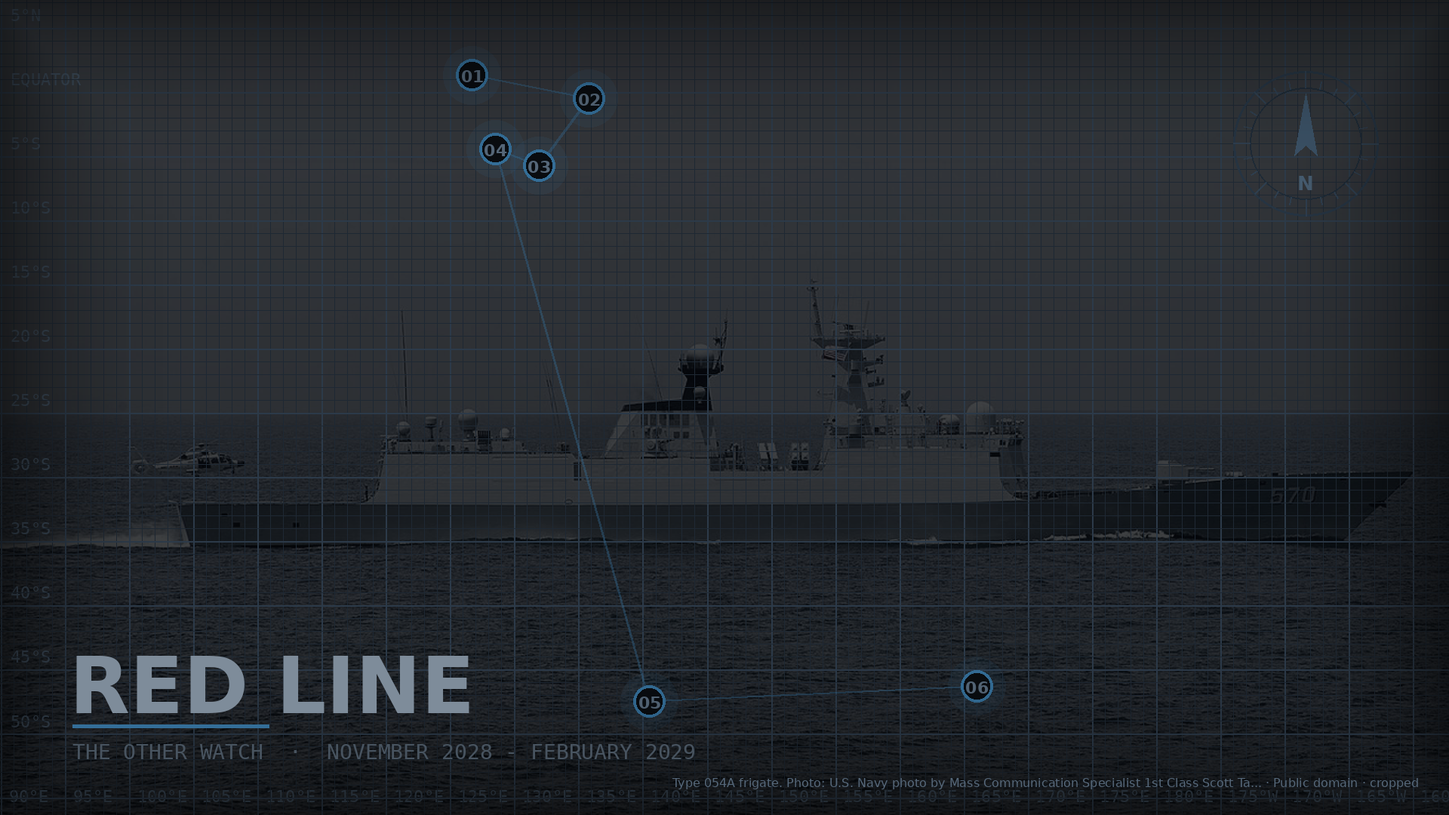
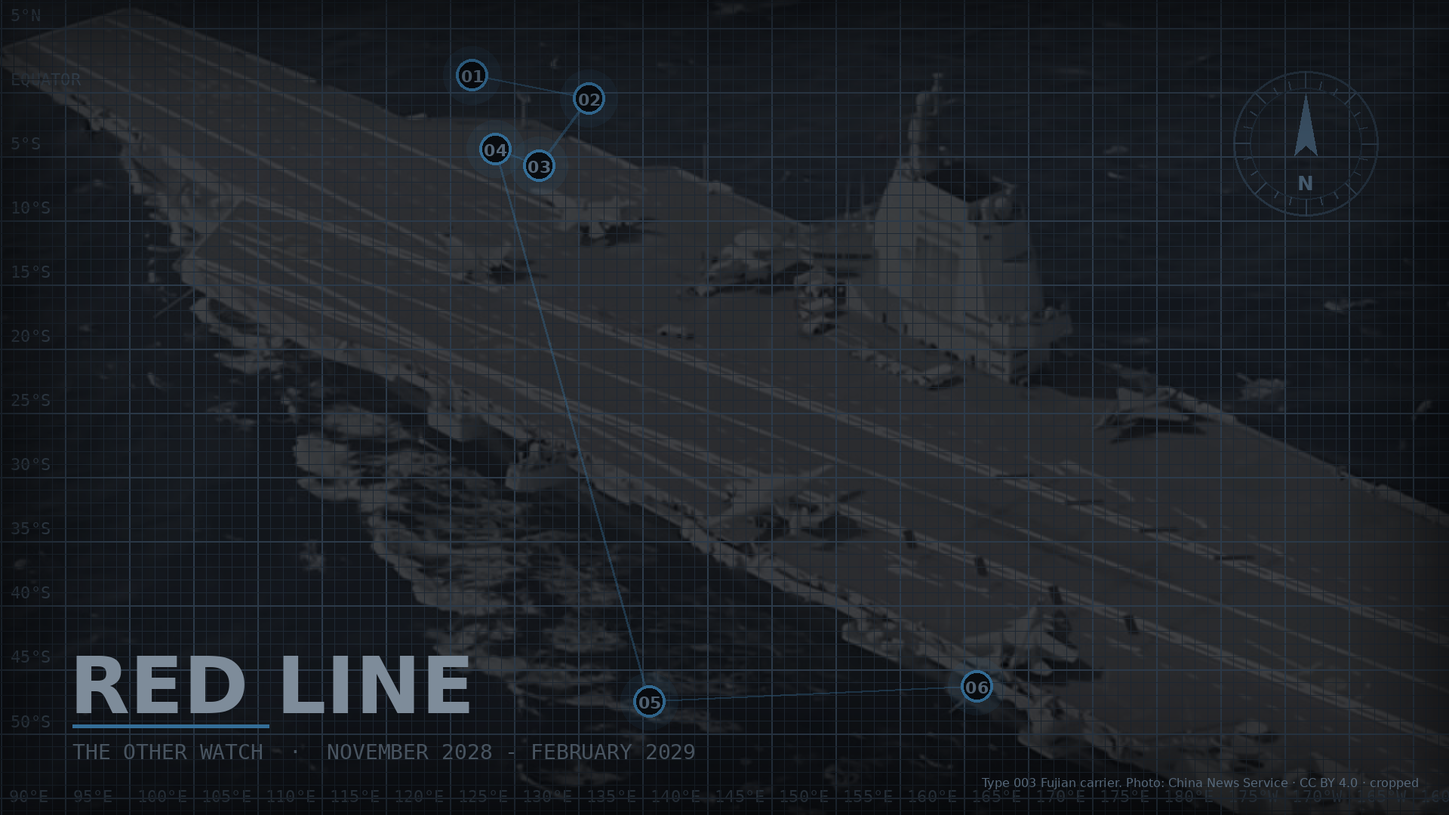
Campaign map backdrops: MH-60R for Southern Watch, Fujian for Red Line
The Steam campaign images show the banner photo large and, beside it, the
in-game campaign map, which was the same photo again behind the plot.
CAMPAIGN_BACKDROP now picks the campaign screen's backdrop photo where it
should differ from the banner: Southern Watch's MH-60R Seahawk (already
credited on the pack page) and, for Red Line, the Type 003 Fujian its
commander sails with. Briefing banners are unchanged; Southern Reach and
Sulu Line fall back to their banner photo as before.

pack-4-southern-watch.jpg and pack-6-red-line.jpg get the new backdrop as
their inset, a straight 520x292 downscale like the one it replaces.
VISUAL_CREDITS.txt and visual_overhaul.html credit both photos.
build_all.py --from-scratch reproduces the output; test_build_pack.py
passes.

Claude-Session: https://claude.ai/code/session_019KyQn4ss3aMEMLZ5x3fPig

diff --git a/integration/dist/SEST_Integration/Gallery/visual_overhaul.html b/integration/dist/SEST_Integration/Gallery/visual_overhaul.html
@@ -6,7 +6,7 @@
 <div class="controls"><button id="prev">Previous</button><select id="screenSelect" aria-label="Loading photograph"></select><button id="next">Next</button><button id="toggle">Hide preview overlay</button><a id="download" download>Open clean JPEG</a></div><p id="screenCredit" class="note"></p><p class="note">Photographs are fitted without changing the subject. The 1920 × 1080 canvas is a delivery format; smaller source photos do not gain real detail through resizing. Source dimensions and modifications are recorded in the manifest.</p>
 <h2>Flags and naval ensigns</h2><p class="intro">Use national flags for country identity and the appropriate ensign for ship service. Preserve era-specific flags for historical scenarios. Russia is a separate modern-profile option; Soviet assets remain available for historical content.</p><div class="controls"><input id="flagSearch" type="search" placeholder="Find a country or ensign…" aria-label="Search flags"><select id="flagRole" aria-label="Flag type"><option value="">All supplied flags</option><option value="national">National flags</option><option value="naval_ensign">Naval ensigns</option><option value="historical">Historical profile</option></select><span id="flagCount" class="note"></span></div><div id="flags" class="flaggrid"></div>
 <h2>Campaign and briefing presentation</h2><p class="intro">The same approved photograph can support mission covers, a briefing panel and campaign splash art. The template uses plain text and a source photo; theatre names, dates, orders and maps must come from the actual mission.</p><div class="briefing"><img id="briefPhoto" alt="Photographic briefing example"><div class="copy"><label>Briefing layout template</label><h3>Mission title</h3><span class="pill">THEATRE</span> <span class="pill">SCENARIO DATE</span><p><strong>Situation</strong><br>Insert the campaign's approved situation text.</p><p><strong>Mission</strong><br>Insert the actual objectives and rules for this mission.</p><p>Keep the interactive briefing map and operational details sourced from the mission files. This template contains no invented scenario information.</p></div></div>
-<h2>Steam artwork</h2><p class="intro">The images on the collection and pack pages on Steam, made from photos in this gallery. Each image carries its photo credit; full sources are in VISUAL_CREDITS.txt.</p><style>.steamgrid{display:grid;grid-template-columns:repeat(auto-fill,minmax(260px,1fr));gap:16px;max-width:1200px}.steamart{margin:0;background:#fff;border:1px solid var(--line);border-radius:8px;overflow:hidden}.steamart img{display:block;width:100%;height:auto}.steamart figcaption{padding:10px 12px;font-size:13px}.steamart small{color:var(--muted)}</style><div class="steamgrid"><figure class="steamart"><a href="visuals/steam/collection-cover.jpg"><img loading="lazy" src="visuals/steam/collection-cover.jpg" alt="Collection cover"></a><figcaption><strong>Collection cover</strong><br><small>Hobart class: Japan Maritime Self-Defense Force, CC BY 4.0</small></figcaption></figure><figure class="steamart"><a href="visuals/steam/collection-background.jpg"><img loading="lazy" src="visuals/steam/collection-background.jpg" alt="Collection background"></a><figcaption><strong>Collection background</strong><br><small>Arleigh Burke class: U.S. Navy photo by Journalist 2nd Class Patrick Reilly, Public domain; Hobart class: Japan Maritime Self-Defense Force, CC BY 4.0; Collins class submarine: U.S. Navy photo by Mass Communication Specialist 1st Class Leonard Adams, Public domain; Type 054A frigate: U.S. Navy photo by Mass Communication Specialist 1st Class Scott Taylor, Public domain</small></figcaption></figure><figure class="steamart"><a href="visuals/steam/pack-preview.jpg"><img loading="lazy" src="visuals/steam/pack-preview.jpg" alt="Pack cover"></a><figcaption><strong>Pack cover</strong><br><small>F-35A — RAAF: U.S. Air Force photo by Senior Airman J. Michael Peña, Public domain</small></figcaption></figure><figure class="steamart"><a href="visuals/steam/pack-1-latest-update.jpg"><img loading="lazy" src="visuals/steam/pack-1-latest-update.jpg" alt="Latest update"></a><figcaption><strong>Latest update</strong><br><small>BRP Tarlac: U.S. Navy photo by Mass Communication Specialist 1st Class Daniel Barker, CC BY-SA 4.0</small></figcaption></figure><figure class="steamart"><a href="visuals/steam/pack-2-whats-inside.jpg"><img loading="lazy" src="visuals/steam/pack-2-whats-inside.jpg" alt="What's in the pack"></a><figcaption><strong>What's in the pack</strong><br><small>Arleigh Burke class: U.S. Navy photo by Journalist 2nd Class Patrick Reilly, Public domain</small></figcaption></figure><figure class="steamart"><a href="visuals/steam/pack-3-installing.jpg"><img loading="lazy" src="visuals/steam/pack-3-installing.jpg" alt="Installing"></a><figcaption><strong>Installing</strong><br><small>E-7A Wedgetail — RAAF: U.S. Air Force photo by Lawrence Crespo, Public domain</small></figcaption></figure><figure class="steamart"><a href="visuals/steam/pack-4-southern-watch.jpg"><img loading="lazy" src="visuals/steam/pack-4-southern-watch.jpg" alt="Southern Watch"></a><figcaption><strong>Southern Watch</strong><br><small>Hobart class: Japan Maritime Self-Defense Force, CC BY 4.0</small></figcaption></figure><figure class="steamart"><a href="visuals/steam/pack-5-southern-reach.jpg"><img loading="lazy" src="visuals/steam/pack-5-southern-reach.jpg" alt="Southern Reach"></a><figcaption><strong>Southern Reach</strong><br><small>Collins class submarine: U.S. Navy photo by Mass Communication Specialist 1st Class Leonard Adams, Public domain</small></figcaption></figure><figure class="steamart"><a href="visuals/steam/pack-6-red-line.jpg"><img loading="lazy" src="visuals/steam/pack-6-red-line.jpg" alt="Red Line"></a><figcaption><strong>Red Line</strong><br><small>Type 054A frigate: U.S. Navy photo by Mass Communication Specialist 1st Class Scott Taylor, Public domain</small></figcaption></figure></div>
+<h2>Steam artwork</h2><p class="intro">The images on the collection and pack pages on Steam, made from photos in this gallery. Each image carries its photo credit; full sources are in VISUAL_CREDITS.txt.</p><style>.steamgrid{display:grid;grid-template-columns:repeat(auto-fill,minmax(260px,1fr));gap:16px;max-width:1200px}.steamart{margin:0;background:#fff;border:1px solid var(--line);border-radius:8px;overflow:hidden}.steamart img{display:block;width:100%;height:auto}.steamart figcaption{padding:10px 12px;font-size:13px}.steamart small{color:var(--muted)}</style><div class="steamgrid"><figure class="steamart"><a href="visuals/steam/collection-cover.jpg"><img loading="lazy" src="visuals/steam/collection-cover.jpg" alt="Collection cover"></a><figcaption><strong>Collection cover</strong><br><small>Hobart class: Japan Maritime Self-Defense Force, CC BY 4.0</small></figcaption></figure><figure class="steamart"><a href="visuals/steam/collection-background.jpg"><img loading="lazy" src="visuals/steam/collection-background.jpg" alt="Collection background"></a><figcaption><strong>Collection background</strong><br><small>Arleigh Burke class: U.S. Navy photo by Journalist 2nd Class Patrick Reilly, Public domain; Hobart class: Japan Maritime Self-Defense Force, CC BY 4.0; Collins class submarine: U.S. Navy photo by Mass Communication Specialist 1st Class Leonard Adams, Public domain; Type 054A frigate: U.S. Navy photo by Mass Communication Specialist 1st Class Scott Taylor, Public domain</small></figcaption></figure><figure class="steamart"><a href="visuals/steam/pack-preview.jpg"><img loading="lazy" src="visuals/steam/pack-preview.jpg" alt="Pack cover"></a><figcaption><strong>Pack cover</strong><br><small>F-35A — RAAF: U.S. Air Force photo by Senior Airman J. Michael Peña, Public domain</small></figcaption></figure><figure class="steamart"><a href="visuals/steam/pack-1-latest-update.jpg"><img loading="lazy" src="visuals/steam/pack-1-latest-update.jpg" alt="Latest update"></a><figcaption><strong>Latest update</strong><br><small>BRP Tarlac: U.S. Navy photo by Mass Communication Specialist 1st Class Daniel Barker, CC BY-SA 4.0</small></figcaption></figure><figure class="steamart"><a href="visuals/steam/pack-2-whats-inside.jpg"><img loading="lazy" src="visuals/steam/pack-2-whats-inside.jpg" alt="What's in the pack"></a><figcaption><strong>What's in the pack</strong><br><small>Arleigh Burke class: U.S. Navy photo by Journalist 2nd Class Patrick Reilly, Public domain</small></figcaption></figure><figure class="steamart"><a href="visuals/steam/pack-3-installing.jpg"><img loading="lazy" src="visuals/steam/pack-3-installing.jpg" alt="Installing"></a><figcaption><strong>Installing</strong><br><small>E-7A Wedgetail — RAAF: U.S. Air Force photo by Lawrence Crespo, Public domain</small></figcaption></figure><figure class="steamart"><a href="visuals/steam/pack-4-southern-watch.jpg"><img loading="lazy" src="visuals/steam/pack-4-southern-watch.jpg" alt="Southern Watch"></a><figcaption><strong>Southern Watch</strong><br><small>Hobart class: Japan Maritime Self-Defense Force, CC BY 4.0; campaign map: MH-60R Seahawk, U.S. Navy/Mass Communication Specialist 3rd Class Andrew Langholf, Public domain</small></figcaption></figure><figure class="steamart"><a href="visuals/steam/pack-5-southern-reach.jpg"><img loading="lazy" src="visuals/steam/pack-5-southern-reach.jpg" alt="Southern Reach"></a><figcaption><strong>Southern Reach</strong><br><small>Collins class submarine: U.S. Navy photo by Mass Communication Specialist 1st Class Leonard Adams, Public domain</small></figcaption></figure><figure class="steamart"><a href="visuals/steam/pack-6-red-line.jpg"><img loading="lazy" src="visuals/steam/pack-6-red-line.jpg" alt="Red Line"></a><figcaption><strong>Red Line</strong><br><small>Type 054A frigate: U.S. Navy photo by Mass Communication Specialist 1st Class Scott Taylor, Public domain; campaign map: Type 003 Fujian, China News Service, CC BY 4.0</small></figcaption></figure></div>
 <h2>Other improvements to consider</h2><div class="table"><table><thead><tr><th>Area</th><th>Deliverable</th><th>Current state</th><th>Order</th></tr></thead><tbody id="roadmap"></tbody></table></div>
 </main><footer>Source graphics and photographs retain their own licences. Clean assets, credits and candidate mappings are supplied. No game files have been changed; native image loading, flag texture routing, mod conflicts and in-game appearance still require testing.</footer><script src="visuals/catalogue.js"></script><script>
 'use strict';const V=window.VISUALS;const $=s=>document.querySelector(s);const esc=s=>String(s??'').replace(/[&<>"']/g,c=>({'&':'&amp;','<':'&lt;','>':'&gt;','"':'&quot;',"'":'&#39;'}[c]));let index=0,overlay=true;

diff --git a/integration/gallery/SEST_Gallery/Gallery/visual_overhaul.html b/integration/gallery/SEST_Gallery/Gallery/visual_overhaul.html
@@ -6,7 +6,7 @@
 <div class="controls"><button id="prev">Previous</button><select id="screenSelect" aria-label="Loading photograph"></select><button id="next">Next</button><button id="toggle">Hide preview overlay</button><a id="download" download>Open clean JPEG</a></div><p id="screenCredit" class="note"></p><p class="note">Photographs are fitted without changing the subject. The 1920 × 1080 canvas is a delivery format; smaller source photos do not gain real detail through resizing. Source dimensions and modifications are recorded in the manifest.</p>
 <h2>Flags and naval ensigns</h2><p class="intro">Use national flags for country identity and the appropriate ensign for ship service. Preserve era-specific flags for historical scenarios. Russia is a separate modern-profile option; Soviet assets remain available for historical content.</p><div class="controls"><input id="flagSearch" type="search" placeholder="Find a country or ensign…" aria-label="Search flags"><select id="flagRole" aria-label="Flag type"><option value="">All supplied flags</option><option value="national">National flags</option><option value="naval_ensign">Naval ensigns</option><option value="historical">Historical profile</option></select><span id="flagCount" class="note"></span></div><div id="flags" class="flaggrid"></div>
 <h2>Campaign and briefing presentation</h2><p class="intro">The same approved photograph can support mission covers, a briefing panel and campaign splash art. The template uses plain text and a source photo; theatre names, dates, orders and maps must come from the actual mission.</p><div class="briefing"><img id="briefPhoto" alt="Photographic briefing example"><div class="copy"><label>Briefing layout template</label><h3>Mission title</h3><span class="pill">THEATRE</span> <span class="pill">SCENARIO DATE</span><p><strong>Situation</strong><br>Insert the campaign's approved situation text.</p><p><strong>Mission</strong><br>Insert the actual objectives and rules for this mission.</p><p>Keep the interactive briefing map and operational details sourced from the mission files. This template contains no invented scenario information.</p></div></div>
-<h2>Steam artwork</h2><p class="intro">The images on the collection and pack pages on Steam, made from photos in this gallery. Each image carries its photo credit; full sources are in VISUAL_CREDITS.txt.</p><style>.steamgrid{display:grid;grid-template-columns:repeat(auto-fill,minmax(260px,1fr));gap:16px;max-width:1200px}.steamart{margin:0;background:#fff;border:1px solid var(--line);border-radius:8px;overflow:hidden}.steamart img{display:block;width:100%;height:auto}.steamart figcaption{padding:10px 12px;font-size:13px}.steamart small{color:var(--muted)}</style><div class="steamgrid"><figure class="steamart"><a href="visuals/steam/collection-cover.jpg"><img loading="lazy" src="visuals/steam/collection-cover.jpg" alt="Collection cover"></a><figcaption><strong>Collection cover</strong><br><small>Hobart class: Japan Maritime Self-Defense Force, CC BY 4.0</small></figcaption></figure><figure class="steamart"><a href="visuals/steam/collection-background.jpg"><img loading="lazy" src="visuals/steam/collection-background.jpg" alt="Collection background"></a><figcaption><strong>Collection background</strong><br><small>Arleigh Burke class: U.S. Navy photo by Journalist 2nd Class Patrick Reilly, Public domain; Hobart class: Japan Maritime Self-Defense Force, CC BY 4.0; Collins class submarine: U.S. Navy photo by Mass Communication Specialist 1st Class Leonard Adams, Public domain; Type 054A frigate: U.S. Navy photo by Mass Communication Specialist 1st Class Scott Taylor, Public domain</small></figcaption></figure><figure class="steamart"><a href="visuals/steam/pack-preview.jpg"><img loading="lazy" src="visuals/steam/pack-preview.jpg" alt="Pack cover"></a><figcaption><strong>Pack cover</strong><br><small>F-35A — RAAF: U.S. Air Force photo by Senior Airman J. Michael Peña, Public domain</small></figcaption></figure><figure class="steamart"><a href="visuals/steam/pack-1-latest-update.jpg"><img loading="lazy" src="visuals/steam/pack-1-latest-update.jpg" alt="Latest update"></a><figcaption><strong>Latest update</strong><br><small>BRP Tarlac: U.S. Navy photo by Mass Communication Specialist 1st Class Daniel Barker, CC BY-SA 4.0</small></figcaption></figure><figure class="steamart"><a href="visuals/steam/pack-2-whats-inside.jpg"><img loading="lazy" src="visuals/steam/pack-2-whats-inside.jpg" alt="What's in the pack"></a><figcaption><strong>What's in the pack</strong><br><small>Arleigh Burke class: U.S. Navy photo by Journalist 2nd Class Patrick Reilly, Public domain</small></figcaption></figure><figure class="steamart"><a href="visuals/steam/pack-3-installing.jpg"><img loading="lazy" src="visuals/steam/pack-3-installing.jpg" alt="Installing"></a><figcaption><strong>Installing</strong><br><small>E-7A Wedgetail — RAAF: U.S. Air Force photo by Lawrence Crespo, Public domain</small></figcaption></figure><figure class="steamart"><a href="visuals/steam/pack-4-southern-watch.jpg"><img loading="lazy" src="visuals/steam/pack-4-southern-watch.jpg" alt="Southern Watch"></a><figcaption><strong>Southern Watch</strong><br><small>Hobart class: Japan Maritime Self-Defense Force, CC BY 4.0</small></figcaption></figure><figure class="steamart"><a href="visuals/steam/pack-5-southern-reach.jpg"><img loading="lazy" src="visuals/steam/pack-5-southern-reach.jpg" alt="Southern Reach"></a><figcaption><strong>Southern Reach</strong><br><small>Collins class submarine: U.S. Navy photo by Mass Communication Specialist 1st Class Leonard Adams, Public domain</small></figcaption></figure><figure class="steamart"><a href="visuals/steam/pack-6-red-line.jpg"><img loading="lazy" src="visuals/steam/pack-6-red-line.jpg" alt="Red Line"></a><figcaption><strong>Red Line</strong><br><small>Type 054A frigate: U.S. Navy photo by Mass Communication Specialist 1st Class Scott Taylor, Public domain</small></figcaption></figure></div>
+<h2>Steam artwork</h2><p class="intro">The images on the collection and pack pages on Steam, made from photos in this gallery. Each image carries its photo credit; full sources are in VISUAL_CREDITS.txt.</p><style>.steamgrid{display:grid;grid-template-columns:repeat(auto-fill,minmax(260px,1fr));gap:16px;max-width:1200px}.steamart{margin:0;background:#fff;border:1px solid var(--line);border-radius:8px;overflow:hidden}.steamart img{display:block;width:100%;height:auto}.steamart figcaption{padding:10px 12px;font-size:13px}.steamart small{color:var(--muted)}</style><div class="steamgrid"><figure class="steamart"><a href="visuals/steam/collection-cover.jpg"><img loading="lazy" src="visuals/steam/collection-cover.jpg" alt="Collection cover"></a><figcaption><strong>Collection cover</strong><br><small>Hobart class: Japan Maritime Self-Defense Force, CC BY 4.0</small></figcaption></figure><figure class="steamart"><a href="visuals/steam/collection-background.jpg"><img loading="lazy" src="visuals/steam/collection-background.jpg" alt="Collection background"></a><figcaption><strong>Collection background</strong><br><small>Arleigh Burke class: U.S. Navy photo by Journalist 2nd Class Patrick Reilly, Public domain; Hobart class: Japan Maritime Self-Defense Force, CC BY 4.0; Collins class submarine: U.S. Navy photo by Mass Communication Specialist 1st Class Leonard Adams, Public domain; Type 054A frigate: U.S. Navy photo by Mass Communication Specialist 1st Class Scott Taylor, Public domain</small></figcaption></figure><figure class="steamart"><a href="visuals/steam/pack-preview.jpg"><img loading="lazy" src="visuals/steam/pack-preview.jpg" alt="Pack cover"></a><figcaption><strong>Pack cover</strong><br><small>F-35A — RAAF: U.S. Air Force photo by Senior Airman J. Michael Peña, Public domain</small></figcaption></figure><figure class="steamart"><a href="visuals/steam/pack-1-latest-update.jpg"><img loading="lazy" src="visuals/steam/pack-1-latest-update.jpg" alt="Latest update"></a><figcaption><strong>Latest update</strong><br><small>BRP Tarlac: U.S. Navy photo by Mass Communication Specialist 1st Class Daniel Barker, CC BY-SA 4.0</small></figcaption></figure><figure class="steamart"><a href="visuals/steam/pack-2-whats-inside.jpg"><img loading="lazy" src="visuals/steam/pack-2-whats-inside.jpg" alt="What's in the pack"></a><figcaption><strong>What's in the pack</strong><br><small>Arleigh Burke class: U.S. Navy photo by Journalist 2nd Class Patrick Reilly, Public domain</small></figcaption></figure><figure class="steamart"><a href="visuals/steam/pack-3-installing.jpg"><img loading="lazy" src="visuals/steam/pack-3-installing.jpg" alt="Installing"></a><figcaption><strong>Installing</strong><br><small>E-7A Wedgetail — RAAF: U.S. Air Force photo by Lawrence Crespo, Public domain</small></figcaption></figure><figure class="steamart"><a href="visuals/steam/pack-4-southern-watch.jpg"><img loading="lazy" src="visuals/steam/pack-4-southern-watch.jpg" alt="Southern Watch"></a><figcaption><strong>Southern Watch</strong><br><small>Hobart class: Japan Maritime Self-Defense Force, CC BY 4.0; campaign map: MH-60R Seahawk, U.S. Navy/Mass Communication Specialist 3rd Class Andrew Langholf, Public domain</small></figcaption></figure><figure class="steamart"><a href="visuals/steam/pack-5-southern-reach.jpg"><img loading="lazy" src="visuals/steam/pack-5-southern-reach.jpg" alt="Southern Reach"></a><figcaption><strong>Southern Reach</strong><br><small>Collins class submarine: U.S. Navy photo by Mass Communication Specialist 1st Class Leonard Adams, Public domain</small></figcaption></figure><figure class="steamart"><a href="visuals/steam/pack-6-red-line.jpg"><img loading="lazy" src="visuals/steam/pack-6-red-line.jpg" alt="Red Line"></a><figcaption><strong>Red Line</strong><br><small>Type 054A frigate: U.S. Navy photo by Mass Communication Specialist 1st Class Scott Taylor, Public domain; campaign map: Type 003 Fujian, China News Service, CC BY 4.0</small></figcaption></figure></div>
 <h2>Other improvements to consider</h2><div class="table"><table><thead><tr><th>Area</th><th>Deliverable</th><th>Current state</th><th>Order</th></tr></thead><tbody id="roadmap"></tbody></table></div>
 </main><footer>Source graphics and photographs retain their own licences. Clean assets, credits and candidate mappings are supplied. No game files have been changed; native image loading, flag texture routing, mod conflicts and in-game appearance still require testing.</footer><script src="visuals/catalogue.js"></script><script>
 'use strict';const V=window.VISUALS;const $=s=>document.querySelector(s);const esc=s=>String(s??'').replace(/[&<>"']/g,c=>({'&':'&amp;','<':'&lt;','>':'&gt;','"':'&quot;',"'":'&#39;'}[c]));let index=0,overlay=true;

diff --git a/integration/gallery/source/visual_overhaul.html b/integration/gallery/source/visual_overhaul.html
@@ -6,7 +6,7 @@
 <div class="controls"><button id="prev">Previous</button><select id="screenSelect" aria-label="Loading photograph"></select><button id="next">Next</button><button id="toggle">Hide preview overlay</button><a id="download" download>Open clean JPEG</a></div><p id="screenCredit" class="note"></p><p class="note">Photographs are fitted without changing the subject. The 1920 × 1080 canvas is a delivery format; smaller source photos do not gain real detail through resizing. Source dimensions and modifications are recorded in the manifest.</p>
 <h2>Flags and naval ensigns</h2><p class="intro">Use national flags for country identity and the appropriate ensign for ship service. Preserve era-specific flags for historical scenarios. Russia is a separate modern-profile option; Soviet assets remain available for historical content.</p><div class="controls"><input id="flagSearch" type="search" placeholder="Find a country or ensign…" aria-label="Search flags"><select id="flagRole" aria-label="Flag type"><option value="">All supplied flags</option><option value="national">National flags</option><option value="naval_ensign">Naval ensigns</option><option value="historical">Historical profile</option></select><span id="flagCount" class="note"></span></div><div id="flags" class="flaggrid"></div>
 <h2>Campaign and briefing presentation</h2><p class="intro">The same approved photograph can support mission covers, a briefing panel and campaign splash art. The template uses plain text and a source photo; theatre names, dates, orders and maps must come from the actual mission.</p><div class="briefing"><img id="briefPhoto" alt="Photographic briefing example"><div class="copy"><label>Briefing layout template</label><h3>Mission title</h3><span class="pill">THEATRE</span> <span class="pill">SCENARIO DATE</span><p><strong>Situation</strong><br>Insert the campaign's approved situation text.</p><p><strong>Mission</strong><br>Insert the actual objectives and rules for this mission.</p><p>Keep the interactive briefing map and operational details sourced from the mission files. This template contains no invented scenario information.</p></div></div>
-<h2>Steam artwork</h2><p class="intro">The images on the collection and pack pages on Steam, made from photos in this gallery. Each image carries its photo credit; full sources are in VISUAL_CREDITS.txt.</p><style>.steamgrid{display:grid;grid-template-columns:repeat(auto-fill,minmax(260px,1fr));gap:16px;max-width:1200px}.steamart{margin:0;background:#fff;border:1px solid var(--line);border-radius:8px;overflow:hidden}.steamart img{display:block;width:100%;height:auto}.steamart figcaption{padding:10px 12px;font-size:13px}.steamart small{color:var(--muted)}</style><div class="steamgrid"><figure class="steamart"><a href="visuals/steam/collection-cover.jpg"><img loading="lazy" src="visuals/steam/collection-cover.jpg" alt="Collection cover"></a><figcaption><strong>Collection cover</strong><br><small>Hobart class: Japan Maritime Self-Defense Force, CC BY 4.0</small></figcaption></figure><figure class="steamart"><a href="visuals/steam/collection-background.jpg"><img loading="lazy" src="visuals/steam/collection-background.jpg" alt="Collection background"></a><figcaption><strong>Collection background</strong><br><small>Arleigh Burke class: U.S. Navy photo by Journalist 2nd Class Patrick Reilly, Public domain; Hobart class: Japan Maritime Self-Defense Force, CC BY 4.0; Collins class submarine: U.S. Navy photo by Mass Communication Specialist 1st Class Leonard Adams, Public domain; Type 054A frigate: U.S. Navy photo by Mass Communication Specialist 1st Class Scott Taylor, Public domain</small></figcaption></figure><figure class="steamart"><a href="visuals/steam/pack-preview.jpg"><img loading="lazy" src="visuals/steam/pack-preview.jpg" alt="Pack cover"></a><figcaption><strong>Pack cover</strong><br><small>F-35A — RAAF: U.S. Air Force photo by Senior Airman J. Michael Peña, Public domain</small></figcaption></figure><figure class="steamart"><a href="visuals/steam/pack-1-latest-update.jpg"><img loading="lazy" src="visuals/steam/pack-1-latest-update.jpg" alt="Latest update"></a><figcaption><strong>Latest update</strong><br><small>BRP Tarlac: U.S. Navy photo by Mass Communication Specialist 1st Class Daniel Barker, CC BY-SA 4.0</small></figcaption></figure><figure class="steamart"><a href="visuals/steam/pack-2-whats-inside.jpg"><img loading="lazy" src="visuals/steam/pack-2-whats-inside.jpg" alt="What's in the pack"></a><figcaption><strong>What's in the pack</strong><br><small>Arleigh Burke class: U.S. Navy photo by Journalist 2nd Class Patrick Reilly, Public domain</small></figcaption></figure><figure class="steamart"><a href="visuals/steam/pack-3-installing.jpg"><img loading="lazy" src="visuals/steam/pack-3-installing.jpg" alt="Installing"></a><figcaption><strong>Installing</strong><br><small>E-7A Wedgetail — RAAF: U.S. Air Force photo by Lawrence Crespo, Public domain</small></figcaption></figure><figure class="steamart"><a href="visuals/steam/pack-4-southern-watch.jpg"><img loading="lazy" src="visuals/steam/pack-4-southern-watch.jpg" alt="Southern Watch"></a><figcaption><strong>Southern Watch</strong><br><small>Hobart class: Japan Maritime Self-Defense Force, CC BY 4.0</small></figcaption></figure><figure class="steamart"><a href="visuals/steam/pack-5-southern-reach.jpg"><img loading="lazy" src="visuals/steam/pack-5-southern-reach.jpg" alt="Southern Reach"></a><figcaption><strong>Southern Reach</strong><br><small>Collins class submarine: U.S. Navy photo by Mass Communication Specialist 1st Class Leonard Adams, Public domain</small></figcaption></figure><figure class="steamart"><a href="visuals/steam/pack-6-red-line.jpg"><img loading="lazy" src="visuals/steam/pack-6-red-line.jpg" alt="Red Line"></a><figcaption><strong>Red Line</strong><br><small>Type 054A frigate: U.S. Navy photo by Mass Communication Specialist 1st Class Scott Taylor, Public domain</small></figcaption></figure></div>
+<h2>Steam artwork</h2><p class="intro">The images on the collection and pack pages on Steam, made from photos in this gallery. Each image carries its photo credit; full sources are in VISUAL_CREDITS.txt.</p><style>.steamgrid{display:grid;grid-template-columns:repeat(auto-fill,minmax(260px,1fr));gap:16px;max-width:1200px}.steamart{margin:0;background:#fff;border:1px solid var(--line);border-radius:8px;overflow:hidden}.steamart img{display:block;width:100%;height:auto}.steamart figcaption{padding:10px 12px;font-size:13px}.steamart small{color:var(--muted)}</style><div class="steamgrid"><figure class="steamart"><a href="visuals/steam/collection-cover.jpg"><img loading="lazy" src="visuals/steam/collection-cover.jpg" alt="Collection cover"></a><figcaption><strong>Collection cover</strong><br><small>Hobart class: Japan Maritime Self-Defense Force, CC BY 4.0</small></figcaption></figure><figure class="steamart"><a href="visuals/steam/collection-background.jpg"><img loading="lazy" src="visuals/steam/collection-background.jpg" alt="Collection background"></a><figcaption><strong>Collection background</strong><br><small>Arleigh Burke class: U.S. Navy photo by Journalist 2nd Class Patrick Reilly, Public domain; Hobart class: Japan Maritime Self-Defense Force, CC BY 4.0; Collins class submarine: U.S. Navy photo by Mass Communication Specialist 1st Class Leonard Adams, Public domain; Type 054A frigate: U.S. Navy photo by Mass Communication Specialist 1st Class Scott Taylor, Public domain</small></figcaption></figure><figure class="steamart"><a href="visuals/steam/pack-preview.jpg"><img loading="lazy" src="visuals/steam/pack-preview.jpg" alt="Pack cover"></a><figcaption><strong>Pack cover</strong><br><small>F-35A — RAAF: U.S. Air Force photo by Senior Airman J. Michael Peña, Public domain</small></figcaption></figure><figure class="steamart"><a href="visuals/steam/pack-1-latest-update.jpg"><img loading="lazy" src="visuals/steam/pack-1-latest-update.jpg" alt="Latest update"></a><figcaption><strong>Latest update</strong><br><small>BRP Tarlac: U.S. Navy photo by Mass Communication Specialist 1st Class Daniel Barker, CC BY-SA 4.0</small></figcaption></figure><figure class="steamart"><a href="visuals/steam/pack-2-whats-inside.jpg"><img loading="lazy" src="visuals/steam/pack-2-whats-inside.jpg" alt="What's in the pack"></a><figcaption><strong>What's in the pack</strong><br><small>Arleigh Burke class: U.S. Navy photo by Journalist 2nd Class Patrick Reilly, Public domain</small></figcaption></figure><figure class="steamart"><a href="visuals/steam/pack-3-installing.jpg"><img loading="lazy" src="visuals/steam/pack-3-installing.jpg" alt="Installing"></a><figcaption><strong>Installing</strong><br><small>E-7A Wedgetail — RAAF: U.S. Air Force photo by Lawrence Crespo, Public domain</small></figcaption></figure><figure class="steamart"><a href="visuals/steam/pack-4-southern-watch.jpg"><img loading="lazy" src="visuals/steam/pack-4-southern-watch.jpg" alt="Southern Watch"></a><figcaption><strong>Southern Watch</strong><br><small>Hobart class: Japan Maritime Self-Defense Force, CC BY 4.0; campaign map: MH-60R Seahawk, U.S. Navy/Mass Communication Specialist 3rd Class Andrew Langholf, Public domain</small></figcaption></figure><figure class="steamart"><a href="visuals/steam/pack-5-southern-reach.jpg"><img loading="lazy" src="visuals/steam/pack-5-southern-reach.jpg" alt="Southern Reach"></a><figcaption><strong>Southern Reach</strong><br><small>Collins class submarine: U.S. Navy photo by Mass Communication Specialist 1st Class Leonard Adams, Public domain</small></figcaption></figure><figure class="steamart"><a href="visuals/steam/pack-6-red-line.jpg"><img loading="lazy" src="visuals/steam/pack-6-red-line.jpg" alt="Red Line"></a><figcaption><strong>Red Line</strong><br><small>Type 054A frigate: U.S. Navy photo by Mass Communication Specialist 1st Class Scott Taylor, Public domain; campaign map: Type 003 Fujian, China News Service, CC BY 4.0</small></figcaption></figure></div>
 <h2>Other improvements to consider</h2><div class="table"><table><thead><tr><th>Area</th><th>Deliverable</th><th>Current state</th><th>Order</th></tr></thead><tbody id="roadmap"></tbody></table></div>
 </main><footer>Source graphics and photographs retain their own licences. Clean assets, credits and candidate mappings are supplied. No game files have been changed; native image loading, flag texture routing, mod conflicts and in-game appearance still require testing.</footer><script src="visuals/catalogue.js"></script><script>
 'use strict';const V=window.VISUALS;const $=s=>document.querySelector(s);const esc=s=>String(s??'').replace(/[&<>"']/g,c=>({'&':'&amp;','<':'&lt;','>':'&gt;','"':'&quot;',"'":'&#39;'}[c]));let index=0,overlay=true;

diff --git a/integration/campaign/build_pack.py b/integration/campaign/build_pack.py
@@ -4111,6 +4111,11 @@ def recognition_png(asset_file):
 # to clip it.
 CAMPAIGN_BANNER = {"sest-southern-watch": "hobart", "sest-southern-reach": "canberra",
                    "sest-red-line": "type054a", "sest-sulu-line": "tarlac"}
+# The campaign screen's backdrop, where it should not repeat the banner: the
+# Steam page shows both side by side (the banner photo large, the campaign
+# map beside it), so Southern Watch's map carries its MH-60R and Red Line's
+# the Fujian its commander sails with. Others fall back to the banner photo.
+CAMPAIGN_BACKDROP = {"sest-southern-watch": "mh60r", "sest-red-line": "type003"}
 BANNER_SIZE = (900, 270)
 SERVICE = {"Australia": "Royal Australian Navy", "China": "People's Liberation Army Navy",
            "Philippines": "Philippine Navy"}
@@ -5958,7 +5963,8 @@ def main():
                      for name, _t, m in built]
             # The campaign's photograph on its opening front page (the page
             # the campaign opens on), credited on the page.
-            ca = gallery_assets().get(CAMPAIGN_BANNER.get(SLUG.removesuffix("-open"), ""))
+            base = SLUG.removesuffix("-open")
+            ca = gallery_assets().get(CAMPAIGN_BACKDROP.get(base, CAMPAIGN_BANNER.get(base, "")))
             cover = ((GALLERY / ca["file"], f"{ca['label']}. "
                       + photo_credit(ca).replace(" · resized", " · cropped")) if ca else None)
             make_art.render_all(camp, cards, spec["EVENTS"], SLUG, TITLE, SUBTITLE,
